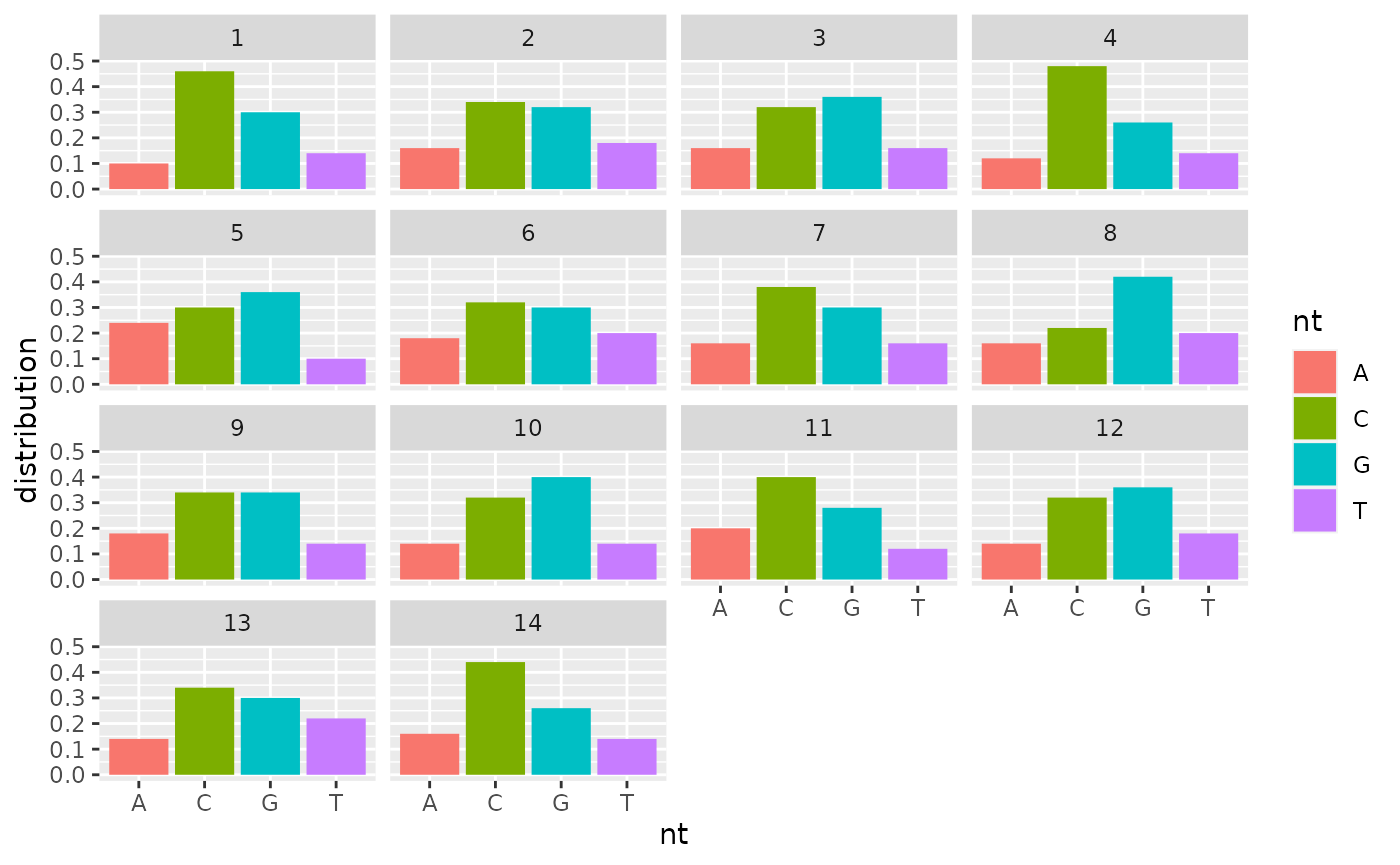
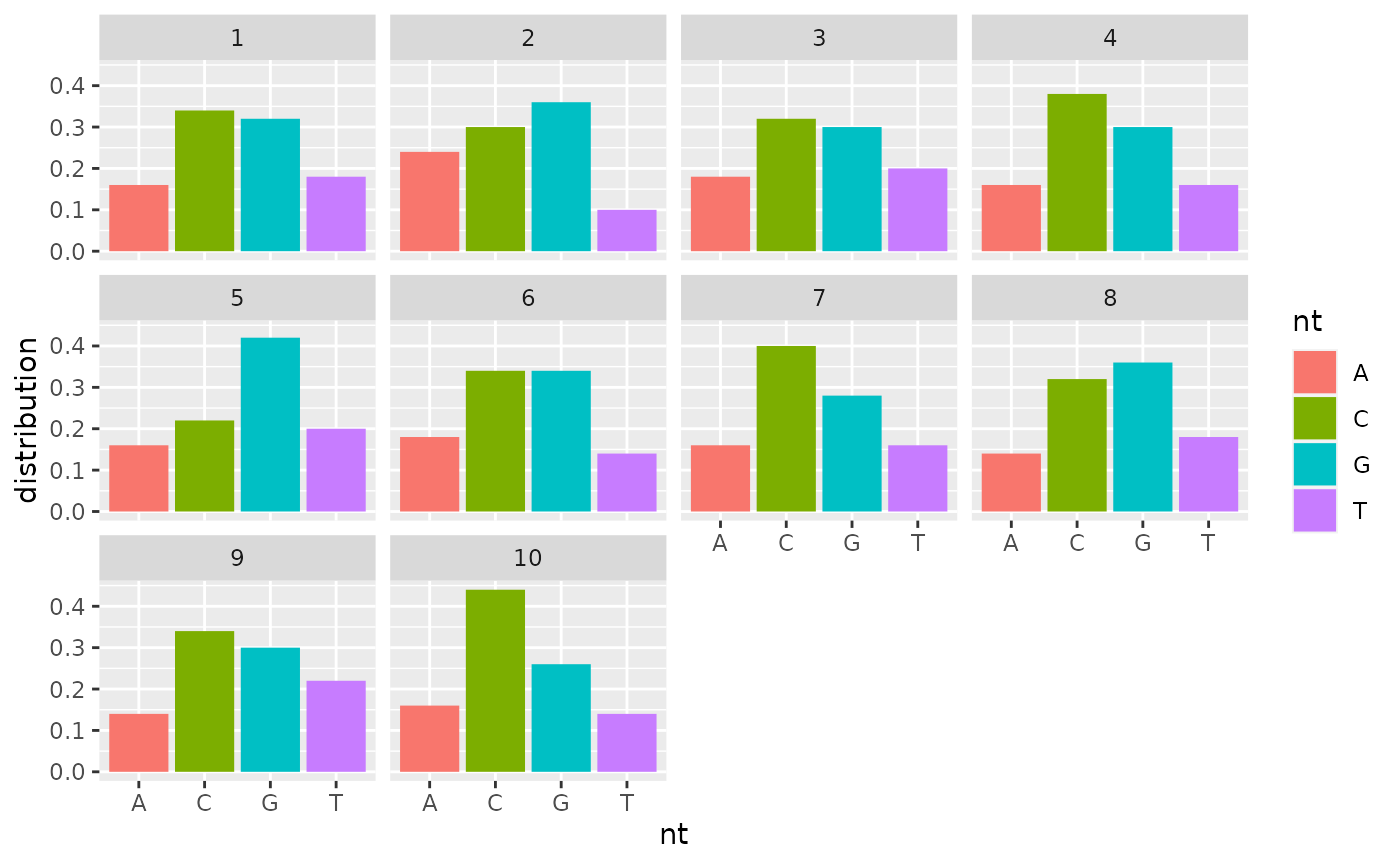
update website

diff --git a/docs/articles/getting_started.html b/docs/articles/getting_started.html
@@ -254,20 +254,20 @@ mark.out {
 <span><span class="co">## [[1]]$confusion_matrix</span></span>
 <span><span class="co">##             Truth</span></span>
 <span><span class="co">## Prediction   high_gc equal_dist</span></span>
-<span><span class="co">##   high_gc        385          1</span></span>
-<span><span class="co">##   equal_dist      14        398</span></span>
+<span><span class="co">##   high_gc        389          2</span></span>
+<span><span class="co">##   equal_dist      10        397</span></span>
 <span><span class="co">## </span></span>
 <span><span class="co">## [[1]]$accuracy</span></span>
-<span><span class="co">## [1] 0.981203</span></span>
+<span><span class="co">## [1] 0.9849624</span></span>
 <span><span class="co">## </span></span>
 <span><span class="co">## [[1]]$categorical_crossentropy_loss</span></span>
-<span><span class="co">## [1] 0.1169291</span></span>
+<span><span class="co">## [1] 0.08142324</span></span>
 <span><span class="co">## </span></span>
 <span><span class="co">## [[1]]$AUC</span></span>
-<span><span class="co">## [1] 0.9973995</span></span>
+<span><span class="co">## [1] 0.9983292</span></span>
 <span><span class="co">## </span></span>
 <span><span class="co">## [[1]]$AUPRC</span></span>
-<span><span class="co">## [1] 0.9973713</span></span></code></pre>
+<span><span class="co">## [1] 0.9983178</span></span></code></pre>
 <p>We can check where our model made mistakes for the sequence with high GC content.</p>
 <div class="sourceCode" id="cb13"><pre class="downlit sourceCode r">
 <code class="sourceCode R"><span><span class="va">high_gc_file</span> <span class="op">&lt;-</span> <span class="fu">microseq</span><span class="fu">::</span><span class="fu"><a href="https://rdrr.io/pkg/microseq/man/readFasta.html" class="external-link">readFasta</a></span><span class="op">(</span><span class="fu"><a href="https://rdrr.io/r/base/list.files.html" class="external-link">list.files</a></span><span class="op">(</span><span class="va">val_1_dir</span>, full.names <span class="op">=</span> <span class="cn">TRUE</span><span class="op">)</span><span class="op">[</span><span class="fl">1</span><span class="op">]</span><span class="op">)</span></span>
@@ -302,30 +302,26 @@ mark.out {
 <span><span class="fu"><a href="https://rdrr.io/r/base/names.html" class="external-link">names</a></span><span class="op">(</span><span class="va">pred_df</span><span class="op">)</span> <span class="op">&lt;-</span> <span class="fu"><a href="https://rdrr.io/r/base/c.html" class="external-link">c</a></span><span class="op">(</span><span class="st">"high_gc_conf"</span>, <span class="st">"equal_dist_conf"</span>, <span class="st">"sample_end_position"</span><span class="op">)</span></span>
 <span><span class="fu"><a href="https://rdrr.io/r/utils/head.html" class="external-link">head</a></span><span class="op">(</span><span class="va">pred_df</span><span class="op">)</span></span></code></pre></div>
 <pre><code><span><span class="co">##   high_gc_conf equal_dist_conf sample_end_position</span></span>
-<span><span class="co">## 1    0.9132041      0.08679590                  50</span></span>
-<span><span class="co">## 2    0.9312269      0.06877302                  75</span></span>
-<span><span class="co">## 3    0.9341301      0.06586976                 100</span></span>
-<span><span class="co">## 4    0.9248236      0.07517630                 125</span></span>
-<span><span class="co">## 5    0.9351547      0.06484523                 150</span></span>
-<span><span class="co">## 6    0.9286696      0.07133042                 175</span></span></code></pre>
+<span><span class="co">## 1    0.9527494      0.04725058                  50</span></span>
+<span><span class="co">## 2    0.9673404      0.03265955                  75</span></span>
+<span><span class="co">## 3    0.9698631      0.03013691                 100</span></span>
+<span><span class="co">## 4    0.9642437      0.03575629                 125</span></span>
+<span><span class="co">## 5    0.9687157      0.03128416                 150</span></span>
+<span><span class="co">## 6    0.9659015      0.03409851                 175</span></span></code></pre>
 <div class="sourceCode" id="cb18"><pre class="downlit sourceCode r">
 <code class="sourceCode R"><span><span class="va">wrong_pred</span> <span class="op">&lt;-</span> <span class="va">pred_df</span> <span class="op"><a href="../reference/pipe.html">%&gt;%</a></span> <span class="fu">dplyr</span><span class="fu">::</span><span class="fu"><a href="https://dplyr.tidyverse.org/reference/filter.html" class="external-link">filter</a></span><span class="op">(</span><span class="va">high_gc_conf</span> <span class="op">&lt;</span> <span class="fl">0.5</span><span class="op">)</span></span>
 <span><span class="va">wrong_pred</span></span></code></pre></div>
 <pre><code><span><span class="co">##    high_gc_conf equal_dist_conf sample_end_position</span></span>
-<span><span class="co">## 1    0.40029472       0.5997053                 675</span></span>
-<span><span class="co">## 2    0.06563434       0.9343656                 800</span></span>
-<span><span class="co">## 3    0.06470647       0.9352934                1150</span></span>
-<span><span class="co">## 4    0.16290323       0.8370968                1475</span></span>
-<span><span class="co">## 5    0.05980777       0.9401921                1950</span></span>
-<span><span class="co">## 6    0.05855723       0.9414428                2700</span></span>
-<span><span class="co">## 7    0.07035532       0.9296446                3000</span></span>
-<span><span class="co">## 8    0.06148772       0.9385122                3700</span></span>
-<span><span class="co">## 9    0.07519007       0.9248100                4675</span></span>
-<span><span class="co">## 10   0.35447988       0.6455200                6500</span></span>
-<span><span class="co">## 11   0.27814656       0.7218535                7550</span></span>
-<span><span class="co">## 12   0.08490564       0.9150943                7875</span></span>
-<span><span class="co">## 13   0.07240243       0.9275976                8225</span></span>
-<span><span class="co">## 14   0.11474812       0.8852519                9925</span></span></code></pre>
+<span><span class="co">## 1    0.04710609       0.9528940                 800</span></span>
+<span><span class="co">## 2    0.04651173       0.9534882                1950</span></span>
+<span><span class="co">## 3    0.03857215       0.9614278                2700</span></span>
+<span><span class="co">## 4    0.08313870       0.9168614                3000</span></span>
+<span><span class="co">## 5    0.05279604       0.9472039                3700</span></span>
+<span><span class="co">## 6    0.07294586       0.9270541                4675</span></span>
+<span><span class="co">## 7    0.48917413       0.5108260                5450</span></span>
+<span><span class="co">## 8    0.25808308       0.7419169                7875</span></span>
+<span><span class="co">## 9    0.04644742       0.9535526                8225</span></span>
+<span><span class="co">## 10   0.16361986       0.8363801                9925</span></span></code></pre>
 <div class="sourceCode" id="cb20"><pre class="downlit sourceCode r">
 <code class="sourceCode R"><span><span class="kw">if</span> <span class="op">(</span><span class="fu"><a href="https://rdrr.io/r/base/nrow.html" class="external-link">nrow</a></span><span class="op">(</span><span class="va">wrong_pred</span><span class="op">)</span> <span class="op">==</span> <span class="fl">0</span><span class="op">)</span> <span class="op">{</span></span>
 <span>  <span class="fu"><a href="https://rdrr.io/r/base/print.html" class="external-link">print</a></span><span class="op">(</span><span class="st">"All predictions for high GC content class correct"</span><span class="op">)</span></span>
@@ -341,20 +337,16 @@ mark.out {
 <span>  </span>
 <span>  <span class="va">wrong_pred_seq</span></span>
 <span><span class="op">}</span></span></code></pre></div>
-<pre><code><span><span class="co">##  [1] "CTTAGAGACCTCGCCGCCACCGCCCGAGGTTCCGCTCCGGCGTCCCGCGG"</span></span>
-<span><span class="co">##  [2] "CCCACTTCGTGTCTATGCCGGACACGCCTCGATAGGCGCAGGCGATGGGC"</span></span>
-<span><span class="co">##  [3] "ACAGGAGAGACCCTCGGTTGCCGGCGACGCCGTGTCGTTGGTAGGCCCAC"</span></span>
-<span><span class="co">##  [4] "GATAGCTCCACACCCACCTCAGCGTCCCGGGCCGCCGGCGTTCCGCCTGC"</span></span>
-<span><span class="co">##  [5] "GCCCAACAAGGACGGTGAACTCCCCCGGGTACGGAAGAGGGTATGGCCGC"</span></span>
-<span><span class="co">##  [6] "AGGAGTCCTCCTAGAGCTCATGGGTTGAGACGTGCCTCGACGCCCGACCT"</span></span>
-<span><span class="co">##  [7] "CCCATTAGACCGTCCTGGCGGACACCCGTACGGGTGAGACCCTCCGGGTC"</span></span>
-<span><span class="co">##  [8] "TGCTTATCATGGCCGCCCTGATGACGTGTCAGGGGGAGGACTGAGCGGGG"</span></span>
-<span><span class="co">##  [9] "ATCCCGCATTCGCCGACGTCTCCACAGGAGGATCAGCGGGTCCGGGGCGA"</span></span>
-<span><span class="co">## [10] "AACGTTCCGCCCTGGCGTGTCGGAGGCTCAGCAAGCCAGCGGCTGCGGGG"</span></span>
-<span><span class="co">## [11] "TTTGCGCCCCCTAAGGCACAGCCGCGACCCCAGGTTGGGAACCGCCGAAC"</span></span>
-<span><span class="co">## [12] "CTACGGAACGTGGCTCCGAGCATCGGCGCATCGGCATGTGTCTGCCGGCG"</span></span>
-<span><span class="co">## [13] "GGCGGGCCCTTCAATTCTATAAGCGACGCCGCCCTTGTCTGACGCTGGGC"</span></span>
-<span><span class="co">## [14] "CACCGGCGTACCTGTTATAAAGTCGCCCGCGCTCCCCCGGGCGCACCACG"</span></span></code></pre>
+<pre><code><span><span class="co">##  [1] "CCCACTTCGTGTCTATGCCGGACACGCCTCGATAGGCGCAGGCGATGGGC"</span></span>
+<span><span class="co">##  [2] "GCCCAACAAGGACGGTGAACTCCCCCGGGTACGGAAGAGGGTATGGCCGC"</span></span>
+<span><span class="co">##  [3] "AGGAGTCCTCCTAGAGCTCATGGGTTGAGACGTGCCTCGACGCCCGACCT"</span></span>
+<span><span class="co">##  [4] "CCCATTAGACCGTCCTGGCGGACACCCGTACGGGTGAGACCCTCCGGGTC"</span></span>
+<span><span class="co">##  [5] "TGCTTATCATGGCCGCCCTGATGACGTGTCAGGGGGAGGACTGAGCGGGG"</span></span>
+<span><span class="co">##  [6] "ATCCCGCATTCGCCGACGTCTCCACAGGAGGATCAGCGGGTCCGGGGCGA"</span></span>
+<span><span class="co">##  [7] "CCAGTGCCGCCCATGCGTACTCGATGCAGACGGCCCGATCTCGCAGCTGC"</span></span>
+<span><span class="co">##  [8] "CTACGGAACGTGGCTCCGAGCATCGGCGCATCGGCATGTGTCTGCCGGCG"</span></span>
+<span><span class="co">##  [9] "GGCGGGCCCTTCAATTCTATAAGCGACGCCGCCCTTGTCTGACGCTGGGC"</span></span>
+<span><span class="co">## [10] "CACCGGCGTACCTGTTATAAAGTCGCCCGCGCTCCCCCGGGCGCACCACG"</span></span></code></pre>
 <p>We can check the nucleotide distribution of those sequences</p>
 <div class="sourceCode" id="cb22"><pre class="downlit sourceCode r">
 <code class="sourceCode R"><span><span class="va">l</span> <span class="op">&lt;-</span> <span class="fu"><a href="https://rdrr.io/r/base/list.html" class="external-link">list</a></span><span class="op">(</span><span class="op">)</span></span>
@@ -364,20 +356,16 @@ mark.out {
 <span><span class="va">dist_matrix</span> <span class="op">&lt;-</span> <span class="fu"><a href="https://rdrr.io/r/base/do.call.html" class="external-link">do.call</a></span><span class="op">(</span><span class="va">rbind</span>, <span class="va">l</span><span class="op">)</span></span>
 <span><span class="va">dist_matrix</span></span></code></pre></div>
 <pre><code><span><span class="co">##          A    C    G    T</span></span>
-<span><span class="co">##  [1,] 0.10 0.46 0.30 0.14</span></span>
-<span><span class="co">##  [2,] 0.16 0.34 0.32 0.18</span></span>
-<span><span class="co">##  [3,] 0.16 0.32 0.36 0.16</span></span>
-<span><span class="co">##  [4,] 0.12 0.48 0.26 0.14</span></span>
-<span><span class="co">##  [5,] 0.24 0.30 0.36 0.10</span></span>
-<span><span class="co">##  [6,] 0.18 0.32 0.30 0.20</span></span>
-<span><span class="co">##  [7,] 0.16 0.38 0.30 0.16</span></span>
-<span><span class="co">##  [8,] 0.16 0.22 0.42 0.20</span></span>
-<span><span class="co">##  [9,] 0.18 0.34 0.34 0.14</span></span>
-<span><span class="co">## [10,] 0.14 0.32 0.40 0.14</span></span>
-<span><span class="co">## [11,] 0.20 0.40 0.28 0.12</span></span>
-<span><span class="co">## [12,] 0.14 0.32 0.36 0.18</span></span>
-<span><span class="co">## [13,] 0.14 0.34 0.30 0.22</span></span>
-<span><span class="co">## [14,] 0.16 0.44 0.26 0.14</span></span></code></pre>
+<span><span class="co">##  [1,] 0.16 0.34 0.32 0.18</span></span>
+<span><span class="co">##  [2,] 0.24 0.30 0.36 0.10</span></span>
+<span><span class="co">##  [3,] 0.18 0.32 0.30 0.20</span></span>
+<span><span class="co">##  [4,] 0.16 0.38 0.30 0.16</span></span>
+<span><span class="co">##  [5,] 0.16 0.22 0.42 0.20</span></span>
+<span><span class="co">##  [6,] 0.18 0.34 0.34 0.14</span></span>
+<span><span class="co">##  [7,] 0.16 0.40 0.28 0.16</span></span>
+<span><span class="co">##  [8,] 0.14 0.32 0.36 0.18</span></span>
+<span><span class="co">##  [9,] 0.14 0.34 0.30 0.22</span></span>
+<span><span class="co">## [10,] 0.16 0.44 0.26 0.14</span></span></code></pre>
 <div class="sourceCode" id="cb24"><pre class="downlit sourceCode r">
 <code class="sourceCode R"><span><span class="va">df</span> <span class="op">&lt;-</span> <span class="fu"><a href="https://rdrr.io/r/base/data.frame.html" class="external-link">data.frame</a></span><span class="op">(</span>distribution <span class="op">=</span> <span class="fu"><a href="https://rdrr.io/r/base/vector.html" class="external-link">as.vector</a></span><span class="op">(</span><span class="va">dist_matrix</span><span class="op">)</span>,</span>
 <span>                 nt <span class="op">=</span> <span class="fu"><a href="https://rdrr.io/r/base/factor.html" class="external-link">factor</a></span><span class="op">(</span><span class="fu"><a href="https://rdrr.io/r/base/rep.html" class="external-link">rep</a></span><span class="op">(</span><span class="va">vocabulary</span>, each <span class="op">=</span> <span class="fu"><a href="https://rdrr.io/r/base/nrow.html" class="external-link">nrow</a></span><span class="op">(</span><span class="va">dist_matrix</span><span class="op">)</span><span class="op">)</span><span class="op">)</span>,</span>
@@ -392,11 +380,11 @@ mark.out {
 <span><span class="va">pred_summary</span> <span class="op">&lt;-</span> <span class="fu"><a href="../reference/summarize_states.html">summarize_states</a></span><span class="op">(</span>label_names <span class="op">=</span> <span class="va">label_names</span>, df <span class="op">=</span> <span class="va">pred_df</span><span class="op">[</span>, <span class="fl">1</span><span class="op">:</span><span class="fl">2</span><span class="op">]</span><span class="op">)</span></span>
 <span><span class="fu"><a href="https://rdrr.io/r/base/print.html" class="external-link">print</a></span><span class="op">(</span><span class="va">pred_summary</span><span class="op">)</span></span></code></pre></div>
 <pre><code><span><span class="co">##    file_name mean_conf_high_gc mean_conf_equal_dist max_conf_high_gc</span></span>
-<span><span class="co">## 1:        NA         0.8901041            0.1098958        0.9406289</span></span>
+<span><span class="co">## 1:        NA         0.9277213           0.07227871         0.973087</span></span>
 <span><span class="co">##    max_conf_equal_dist vote_perc_high_gc vote_perc_equal_dist mean_prediction</span></span>
-<span><span class="co">## 1:           0.9414428         0.9649123           0.03508772         high_gc</span></span>
+<span><span class="co">## 1:           0.9614278         0.9749373           0.02506266         high_gc</span></span>
 <span><span class="co">##    max_prediction vote_prediction num_prediction</span></span>
-<span><span class="co">## 1:     equal_dist         high_gc            399</span></span></code></pre>
+<span><span class="co">## 1:        high_gc         high_gc            399</span></span></code></pre>
 </div>
 </div>
   </div>

diff --git a/docs/reference/integrated_gradients.html b/docs/reference/integrated_gradients.html
@@ -155,26 +155,26 @@ gradient repeatedly for different shuffles). Final result is average of <code>nu
 <span class="r-in"><span>  target_class_idx <span class="op">=</span> <span class="fl">3</span>,</span></span>
 <span class="r-in"><span>  model <span class="op">=</span> <span class="va">model</span><span class="op">)</span></span></span>
 <span class="r-out co"><span class="r-pr">#&gt;</span> tf.Tensor(</span>
-<span class="r-out co"><span class="r-pr">#&gt;</span> [[-0.         -0.00038149  0.          0.        ]</span>
-<span class="r-out co"><span class="r-pr">#&gt;</span>  [-0.         -0.0004419   0.          0.        ]</span>
-<span class="r-out co"><span class="r-pr">#&gt;</span>  [-0.         -0.          0.          0.00082867]</span>
-<span class="r-out co"><span class="r-pr">#&gt;</span>  [-0.         -0.          0.          0.00089801]</span>
-<span class="r-out co"><span class="r-pr">#&gt;</span>  [-0.         -0.00055842  0.          0.        ]</span>
-<span class="r-out co"><span class="r-pr">#&gt;</span>  [-0.         -0.0006061   0.          0.        ]</span>
-<span class="r-out co"><span class="r-pr">#&gt;</span>  [-0.00083154 -0.          0.          0.        ]</span>
-<span class="r-out co"><span class="r-pr">#&gt;</span>  [-0.         -0.00064194  0.          0.        ]</span>
-<span class="r-out co"><span class="r-pr">#&gt;</span>  [-0.         -0.00065546  0.          0.        ]</span>
-<span class="r-out co"><span class="r-pr">#&gt;</span>  [-0.         -0.00065612  0.          0.        ]</span>
-<span class="r-out co"><span class="r-pr">#&gt;</span>  [ 0.         -0.00065442  0.         -0.        ]</span>
-<span class="r-out co"><span class="r-pr">#&gt;</span>  [ 0.00034191 -0.          0.         -0.        ]</span>
-<span class="r-out co"><span class="r-pr">#&gt;</span>  [ 0.         -0.          0.00319439 -0.        ]</span>
-<span class="r-out co"><span class="r-pr">#&gt;</span>  [ 0.         -0.          0.00402919 -0.        ]</span>
-<span class="r-out co"><span class="r-pr">#&gt;</span>  [ 0.         -0.          0.         -0.00545074]</span>
-<span class="r-out co"><span class="r-pr">#&gt;</span>  [ 0.         -0.00323592  0.         -0.        ]</span>
-<span class="r-out co"><span class="r-pr">#&gt;</span>  [ 0.         -0.          0.00721084 -0.        ]</span>
-<span class="r-out co"><span class="r-pr">#&gt;</span>  [ 0.         -0.          0.00848798 -0.        ]</span>
-<span class="r-out co"><span class="r-pr">#&gt;</span>  [ 0.         -0.          0.         -0.01416174]</span>
-<span class="r-out co"><span class="r-pr">#&gt;</span>  [ 0.         -0.02610211  0.         -0.        ]], shape=(20, 4), dtype=float32)</span>
+<span class="r-out co"><span class="r-pr">#&gt;</span> [[-0.0000000e+00 -1.2952249e-06 -0.0000000e+00 -0.0000000e+00]</span>
+<span class="r-out co"><span class="r-pr">#&gt;</span>  [-0.0000000e+00  2.2493858e-05 -0.0000000e+00 -0.0000000e+00]</span>
+<span class="r-out co"><span class="r-pr">#&gt;</span>  [-0.0000000e+00  0.0000000e+00 -0.0000000e+00 -4.0920370e-04]</span>
+<span class="r-out co"><span class="r-pr">#&gt;</span>  [-0.0000000e+00  0.0000000e+00 -0.0000000e+00 -5.0157774e-04]</span>
+<span class="r-out co"><span class="r-pr">#&gt;</span>  [-0.0000000e+00  2.0037683e-04 -0.0000000e+00 -0.0000000e+00]</span>
+<span class="r-out co"><span class="r-pr">#&gt;</span>  [-0.0000000e+00  2.8528261e-04 -0.0000000e+00 -0.0000000e+00]</span>
+<span class="r-out co"><span class="r-pr">#&gt;</span>  [-1.8609125e-04  0.0000000e+00  0.0000000e+00 -0.0000000e+00]</span>
+<span class="r-out co"><span class="r-pr">#&gt;</span>  [ 0.0000000e+00  5.8375375e-04  0.0000000e+00 -0.0000000e+00]</span>
+<span class="r-out co"><span class="r-pr">#&gt;</span>  [ 0.0000000e+00  7.8504276e-04  0.0000000e+00 -0.0000000e+00]</span>
+<span class="r-out co"><span class="r-pr">#&gt;</span>  [ 0.0000000e+00  1.0388227e-03  0.0000000e+00 -0.0000000e+00]</span>
+<span class="r-out co"><span class="r-pr">#&gt;</span>  [ 0.0000000e+00  1.3359934e-03  0.0000000e+00 -0.0000000e+00]</span>
+<span class="r-out co"><span class="r-pr">#&gt;</span>  [ 2.1125162e-03  0.0000000e+00  0.0000000e+00 -0.0000000e+00]</span>
+<span class="r-out co"><span class="r-pr">#&gt;</span>  [ 0.0000000e+00  0.0000000e+00  3.9740321e-03 -0.0000000e+00]</span>
+<span class="r-out co"><span class="r-pr">#&gt;</span>  [ 0.0000000e+00  0.0000000e+00  5.4790308e-03 -0.0000000e+00]</span>
+<span class="r-out co"><span class="r-pr">#&gt;</span>  [ 0.0000000e+00  0.0000000e+00  0.0000000e+00 -2.9303045e-03]</span>
+<span class="r-out co"><span class="r-pr">#&gt;</span>  [ 0.0000000e+00  4.0434296e-03  0.0000000e+00 -0.0000000e+00]</span>
+<span class="r-out co"><span class="r-pr">#&gt;</span>  [ 0.0000000e+00  0.0000000e+00  1.2964427e-02 -0.0000000e+00]</span>
+<span class="r-out co"><span class="r-pr">#&gt;</span>  [ 0.0000000e+00  0.0000000e+00  1.6726715e-02 -0.0000000e+00]</span>
+<span class="r-out co"><span class="r-pr">#&gt;</span>  [ 0.0000000e+00  0.0000000e+00  0.0000000e+00 -6.8204957e-03]</span>
+<span class="r-out co"><span class="r-pr">#&gt;</span>  [ 0.0000000e+00  5.7825292e-03  0.0000000e+00 -0.0000000e+00]], shape=(20, 4), dtype=float32)</span>
 </code></pre></div>
     </div>
   </div>

diff --git a/docs/reference/load_prediction.html b/docs/reference/load_prediction.html
@@ -154,25 +154,25 @@
 <span class="r-in"><span><span class="fu">load_prediction</span><span class="op">(</span>h5_path <span class="op">=</span> <span class="va">output_file</span><span class="op">)</span></span></span>
 <span class="r-out co"><span class="r-pr">#&gt;</span> $states</span>
 <span class="r-out co"><span class="r-pr">#&gt;</span>            [,1]      [,2]</span>
-<span class="r-out co"><span class="r-pr">#&gt;</span>  [1,] 0.5823807 0.4176193</span>
-<span class="r-out co"><span class="r-pr">#&gt;</span>  [2,] 0.5760499 0.4239500</span>
-<span class="r-out co"><span class="r-pr">#&gt;</span>  [3,] 0.5747239 0.4252761</span>
-<span class="r-out co"><span class="r-pr">#&gt;</span>  [4,] 0.5799693 0.4200308</span>
-<span class="r-out co"><span class="r-pr">#&gt;</span>  [5,] 0.5699171 0.4300829</span>
-<span class="r-out co"><span class="r-pr">#&gt;</span>  [6,] 0.5892100 0.4107900</span>
-<span class="r-out co"><span class="r-pr">#&gt;</span>  [7,] 0.5825222 0.4174778</span>
-<span class="r-out co"><span class="r-pr">#&gt;</span>  [8,] 0.5744175 0.4255825</span>
-<span class="r-out co"><span class="r-pr">#&gt;</span>  [9,] 0.5716776 0.4283224</span>
-<span class="r-out co"><span class="r-pr">#&gt;</span> [10,] 0.5705716 0.4294283</span>
-<span class="r-out co"><span class="r-pr">#&gt;</span> [11,] 0.5877081 0.4122919</span>
-<span class="r-out co"><span class="r-pr">#&gt;</span> [12,] 0.5638786 0.4361213</span>
-<span class="r-out co"><span class="r-pr">#&gt;</span> [13,] 0.5787756 0.4212243</span>
-<span class="r-out co"><span class="r-pr">#&gt;</span> [14,] 0.5838944 0.4161054</span>
-<span class="r-out co"><span class="r-pr">#&gt;</span> [15,] 0.5638053 0.4361947</span>
-<span class="r-out co"><span class="r-pr">#&gt;</span> [16,] 0.5711952 0.4288047</span>
-<span class="r-out co"><span class="r-pr">#&gt;</span> [17,] 0.5992809 0.4007192</span>
-<span class="r-out co"><span class="r-pr">#&gt;</span> [18,] 0.5924143 0.4075857</span>
-<span class="r-out co"><span class="r-pr">#&gt;</span> [19,] 0.5852003 0.4147997</span>
+<span class="r-out co"><span class="r-pr">#&gt;</span>  [1,] 0.3763805 0.6236194</span>
+<span class="r-out co"><span class="r-pr">#&gt;</span>  [2,] 0.4122152 0.5877848</span>
+<span class="r-out co"><span class="r-pr">#&gt;</span>  [3,] 0.3923035 0.6076964</span>
+<span class="r-out co"><span class="r-pr">#&gt;</span>  [4,] 0.3824968 0.6175031</span>
+<span class="r-out co"><span class="r-pr">#&gt;</span>  [5,] 0.3496311 0.6503688</span>
+<span class="r-out co"><span class="r-pr">#&gt;</span>  [6,] 0.3902978 0.6097021</span>
+<span class="r-out co"><span class="r-pr">#&gt;</span>  [7,] 0.4027869 0.5972131</span>
+<span class="r-out co"><span class="r-pr">#&gt;</span>  [8,] 0.3482873 0.6517127</span>
+<span class="r-out co"><span class="r-pr">#&gt;</span>  [9,] 0.3871129 0.6128871</span>
+<span class="r-out co"><span class="r-pr">#&gt;</span> [10,] 0.3425595 0.6574405</span>
+<span class="r-out co"><span class="r-pr">#&gt;</span> [11,] 0.3778934 0.6221065</span>
+<span class="r-out co"><span class="r-pr">#&gt;</span> [12,] 0.3936476 0.6063524</span>
+<span class="r-out co"><span class="r-pr">#&gt;</span> [13,] 0.3652510 0.6347490</span>
+<span class="r-out co"><span class="r-pr">#&gt;</span> [14,] 0.3768734 0.6231266</span>
+<span class="r-out co"><span class="r-pr">#&gt;</span> [15,] 0.3703067 0.6296933</span>
+<span class="r-out co"><span class="r-pr">#&gt;</span> [16,] 0.3976282 0.6023718</span>
+<span class="r-out co"><span class="r-pr">#&gt;</span> [17,] 0.3285272 0.6714728</span>
+<span class="r-out co"><span class="r-pr">#&gt;</span> [18,] 0.3707829 0.6292171</span>
+<span class="r-out co"><span class="r-pr">#&gt;</span> [19,] 0.3554373 0.6445627</span>
 <span class="r-out co"><span class="r-pr">#&gt;</span> </span>
 </code></pre></div>
     </div>

diff --git a/docs/reference/train_model_cpc.html b/docs/reference/train_model_cpc.html
@@ -352,7 +352,7 @@ subset of <code>max_samples</code> samples.</p></dd>
 <span class="r-in"><span><span class="co"># train model</span></span></span>
 <span class="r-in"><span><span class="va">temp_dir</span> <span class="op">&lt;-</span> <span class="fu"><a href="https://rdrr.io/r/base/tempfile.html" class="external-link">tempdir</a></span><span class="op">(</span><span class="op">)</span></span></span>
 <span class="r-in"><span><span class="fu"><a href="https://rdrr.io/r/base/files2.html" class="external-link">dir.create</a></span><span class="op">(</span><span class="va">temp_dir</span><span class="op">)</span></span></span>
-<span class="r-wrn co"><span class="r-pr">#&gt;</span> <span class="warning">Warning: </span>'/tmp/Rtmp9EzOTj' already exists</span>
+<span class="r-wrn co"><span class="r-pr">#&gt;</span> <span class="warning">Warning: </span>'/tmp/RtmpYA8C9M' already exists</span>
 <span class="r-in"><span><span class="va">hist</span> <span class="op">&lt;-</span> <span class="fu">train_model_cpc</span><span class="op">(</span>train_type <span class="op">=</span> <span class="st">"CPC"</span>,</span></span>
 <span class="r-in"><span>                        <span class="co">### cpc functions ###</span></span></span>
 <span class="r-in"><span>                        encoder <span class="op">=</span> <span class="va">encoder</span>,</span></span>
@@ -367,16 +367,16 @@ subset of <code>max_samples</code> samples.</p></dd>
 <span class="r-in"><span>                        steps_per_epoch <span class="op">=</span> <span class="fl">6</span>,</span></span>
 <span class="r-in"><span>                        patchlen <span class="op">=</span> <span class="fl">100</span>,</span></span>
 <span class="r-in"><span>                        nopatches <span class="op">=</span> <span class="fl">8</span><span class="op">)</span></span></span>
-<span class="r-out co"><span class="r-pr">#&gt;</span> 2022-12-13 13:48 : Preparing the data</span>
-<span class="r-out co"><span class="r-pr">#&gt;</span> 2022-12-13 13:48 : Preparing the metrics</span>
-<span class="r-out co"><span class="r-pr">#&gt;</span> 2022-12-13 13:48 : Creating the model</span>
-<span class="r-out co"><span class="r-pr">#&gt;</span> 2022-12-13 13:48 : Starting Training</span>
-<span class="r-out co"><span class="r-pr">#&gt;</span> 2022-12-13 13:48 : EPOCH 1  </span>
+<span class="r-out co"><span class="r-pr">#&gt;</span> 2022-12-13 14:09 : Preparing the data</span>
+<span class="r-out co"><span class="r-pr">#&gt;</span> 2022-12-13 14:09 : Preparing the metrics</span>
+<span class="r-out co"><span class="r-pr">#&gt;</span> 2022-12-13 14:09 : Creating the model</span>
+<span class="r-out co"><span class="r-pr">#&gt;</span> 2022-12-13 14:09 : Starting Training</span>
+<span class="r-out co"><span class="r-pr">#&gt;</span> 2022-12-13 14:09 : EPOCH 1  </span>
 <span class="r-out co"><span class="r-pr">#&gt;</span> -------------- New best model saved</span>
-<span class="r-out co"><span class="r-pr">#&gt;</span> 2022-12-13 13:48 : EPOCH 2  </span>
+<span class="r-out co"><span class="r-pr">#&gt;</span> 2022-12-13 14:09 : EPOCH 2  </span>
 <span class="r-out co"><span class="r-pr">#&gt;</span> -------------- New best model saved</span>
 <span class="r-out co"><span class="r-pr">#&gt;</span> ---------- New backup model saved</span>
-<span class="r-out co"><span class="r-pr">#&gt;</span> 2022-12-13 13:49 : EPOCH 3  </span>
+<span class="r-out co"><span class="r-pr">#&gt;</span> 2022-12-13 14:09 : EPOCH 3  </span>
 <span class="r-out co"><span class="r-pr">#&gt;</span> -------------- New best model saved</span>
 <span class="r-out co"><span class="r-pr">#&gt;</span> ---------- New FINAL model saved</span>
 <span class="r-in"><span> </span></span>

diff --git a/docs/index.html b/docs/index.html
@@ -122,7 +122,7 @@
   <div class="contents col-md-9">
 
 <p></p>
-<p><img alt="DeepG logo" height="70px" src="https://avatars.githubusercontent.com/u/47594096?s=200&amp;v=4" align="left" hspace="10px" vspace="0px"></p>
+<p><img alt="DeepG logo" height="70px" src="reference/figures/logo_small.png" align="left" hspace="10px" vspace="0px"></p>
 <div class="page-header"><h1></h1></div>
 <p>DeepG: R toolbox for deep neural networks optimized for genomic datasets</p>
 <p>The goal of the package is to speed up the development of bioinformatical tools for sequence classification, homology detection and other bioinformatical tasks. It is developed for biologists and advanced AI researchers. DeepG is a collaborative effort from the McHardy Lab at the <em>Helmholtz Centre for Infection Research</em>, The Bischl lab at the <em>University of Munich</em> and the Huttenhower lab at <em>Harvard T.H. Chan School of Public Health</em>.</p>
@@ -174,7 +174,7 @@
 <div class="section level2">
 <h2 id="usage">Usage<a class="anchor" aria-label="anchor" href="#usage"></a>
 </h2>
-<p>See the package website at <a href="https://deepg.de" class="external-link uri">https://deepg.de</a> for documentation and example code.</p>
+<p>See the Package website at <a href="https://deepg.de" class="external-link uri">https://deepg.de</a> for documentation and example code.</p>
 <!-- ## Examples  --><!-- ## Datasets --><!-- The library comes with mutiple different datasets for testing: --><!-- - The set `data(parenthesis)` contains 100k characters of the parenthesis synthetic language generated from a very simple counting language with a parenthesis and letter alphabet Σ = {( ) 0 1 2 3 4 }. The language is constrained to match parentheses, and nesting is limited to at most 4 levels deep. Each opening parenthesis increases and each closing parenthesis decreases the nesting level, respectively. Numbers are generated randomly, but are constrained to indicate the nesting level at their position. --><!-- - The set `data(crispr_full)` containing all CRISPR loci found in NCBI representative genomes with neighbor nucleotides up and downstream. --><!-- - The set `data(crispr_sample)` containing a subset of `data(crispr_full)`. --><!-- - The set `data(ecoli)` contains the *E. coli* genome, see [the genome sequence of Escherichia coli K-12](https://science.sciencemag.org/content/277/5331/1453.long). --><!-- - The set `data(ecoli_small)` contains a subset of `data(ecoli)`. --><!---
 ## Installation and Usage
 

diff --git a/docs/reference/evaluate_model.html b/docs/reference/evaluate_model.html
@@ -280,16 +280,16 @@ and else an integer.</p></dd>
 <span class="r-out co"><span class="r-pr">#&gt;</span> [[1]]$confusion_matrix</span>
 <span class="r-out co"><span class="r-pr">#&gt;</span>           Truth</span>
 <span class="r-out co"><span class="r-pr">#&gt;</span> Prediction a c g t</span>
-<span class="r-out co"><span class="r-pr">#&gt;</span>          a 0 0 0 0</span>
+<span class="r-out co"><span class="r-pr">#&gt;</span>          a 1 2 5 2</span>
 <span class="r-out co"><span class="r-pr">#&gt;</span>          c 0 0 0 0</span>
-<span class="r-out co"><span class="r-pr">#&gt;</span>          g 5 2 5 2</span>
-<span class="r-out co"><span class="r-pr">#&gt;</span>          t 0 0 0 1</span>
+<span class="r-out co"><span class="r-pr">#&gt;</span>          g 2 2 0 1</span>
+<span class="r-out co"><span class="r-pr">#&gt;</span>          t 0 0 0 0</span>
 <span class="r-out co"><span class="r-pr">#&gt;</span> </span>
 <span class="r-out co"><span class="r-pr">#&gt;</span> [[1]]$accuracy</span>
-<span class="r-out co"><span class="r-pr">#&gt;</span> [1] 0.4</span>
+<span class="r-out co"><span class="r-pr">#&gt;</span> [1] 0.06666667</span>
 <span class="r-out co"><span class="r-pr">#&gt;</span> </span>
 <span class="r-out co"><span class="r-pr">#&gt;</span> [[1]]$categorical_crossentropy_loss</span>
-<span class="r-out co"><span class="r-pr">#&gt;</span> [1] 1.321667</span>
+<span class="r-out co"><span class="r-pr">#&gt;</span> [1] 1.404588</span>
 <span class="r-out co"><span class="r-pr">#&gt;</span> </span>
 <span class="r-out co"><span class="r-pr">#&gt;</span> [[1]]$AUC</span>
 <span class="r-out co"><span class="r-pr">#&gt;</span> NULL</span>

diff --git a/docs/articles/training_types.html b/docs/articles/training_types.html
@@ -373,10 +373,10 @@ mark.out {
 <span><span class="op">)</span></span></code></pre></div>
 <pre><code><span><span class="co">## </span></span>
 <span><span class="co">## Final epoch (plot to see history):</span></span>
-<span><span class="co">##             loss: 0.001185</span></span>
+<span><span class="co">##             loss: 0.001422</span></span>
 <span><span class="co">##     balanced_acc: 1</span></span>
 <span><span class="co">##              acc: 1</span></span>
-<span><span class="co">##         val_loss: 0.0001008</span></span>
+<span><span class="co">##         val_loss: 0.0001386</span></span>
 <span><span class="co">## val_balanced_acc: 1</span></span>
 <span><span class="co">##          val_acc: 1</span></span>
 <span><span class="co">##               lr: 0.1</span></span></code></pre>
@@ -410,10 +410,10 @@ mark.out {
 <span><span class="op">)</span></span></code></pre></div>
 <pre><code><span><span class="co">## </span></span>
 <span><span class="co">## Final epoch (plot to see history):</span></span>
-<span><span class="co">##             loss: 0.000009221</span></span>
+<span><span class="co">##             loss: 0.0000123</span></span>
 <span><span class="co">##     balanced_acc: 1</span></span>
 <span><span class="co">##              acc: 1</span></span>
-<span><span class="co">##         val_loss: 0.000006765</span></span>
+<span><span class="co">##         val_loss: 0.000006556</span></span>
 <span><span class="co">## val_balanced_acc: 1</span></span>
 <span><span class="co">##          val_acc: 1</span></span>
 <span><span class="co">##               lr: 0.1</span></span></code></pre>

diff --git a/docs/reference/evaluate_linear.html b/docs/reference/evaluate_linear.html
@@ -121,10 +121,10 @@ true targets. Outputs columnwise average.</p>
 <span class="r-in"><span><span class="va">y_pred</span> <span class="op">&lt;-</span> <span class="fu"><a href="https://rdrr.io/r/base/matrix.html" class="external-link">matrix</a></span><span class="op">(</span><span class="fu"><a href="https://rdrr.io/r/stats/Normal.html" class="external-link">rnorm</a></span><span class="op">(</span>n <span class="op">=</span> <span class="fl">12</span><span class="op">)</span>, ncol <span class="op">=</span> <span class="fl">3</span><span class="op">)</span></span></span>
 <span class="r-in"><span><span class="fu">evaluate_linear</span><span class="op">(</span><span class="va">y_true</span>, <span class="va">y_pred</span><span class="op">)</span></span></span>
 <span class="r-out co"><span class="r-pr">#&gt;</span> $mse</span>
-<span class="r-out co"><span class="r-pr">#&gt;</span> [1] 1.458018</span>
+<span class="r-out co"><span class="r-pr">#&gt;</span> [1] 1.677286</span>
 <span class="r-out co"><span class="r-pr">#&gt;</span> </span>
 <span class="r-out co"><span class="r-pr">#&gt;</span> $mae</span>
-<span class="r-out co"><span class="r-pr">#&gt;</span> [1] 0.9972756</span>
+<span class="r-out co"><span class="r-pr">#&gt;</span> [1] 0.98221</span>
 <span class="r-out co"><span class="r-pr">#&gt;</span> </span>
 </code></pre></div>
     </div>

diff --git a/README.md b/README.md
@@ -1,7 +1,7 @@
 
 <p>
 
-<img alt="DeepG logo" height="7px" src="https://avatars.githubusercontent.com/u/47594096?s=200&v=4" align="left" hspace="10px" vspace="0px">
+<img alt="DeepG logo" height="70px" src="man/figures/logo_small.png" align="left" hspace="10px" vspace="0px">
 
 </p>
 
@@ -18,7 +18,7 @@ advanced AI researchers. DeepG is a collaborative effort from the
 McHardy Lab at the *Helmholtz Centre for Infection Research*, The Bischl
 lab at the *University of Munich* and the Huttenhower lab at *Harvard
 T.H. Chan School of Public
-Health*
+Health*.
 
 [![DOI](https://zenodo.org/badge/387820006.svg)](https://zenodo.org/badge/latestdoi/387820006)
 
@@ -62,7 +62,7 @@ devtools::install_github("GenomeNet/deepG")
 
 ## Usage
 
-See the package website at <https://deepg.de> for documentation and
+See the Package website at <https://deepg.de> for documentation and
 example
 code.
 
